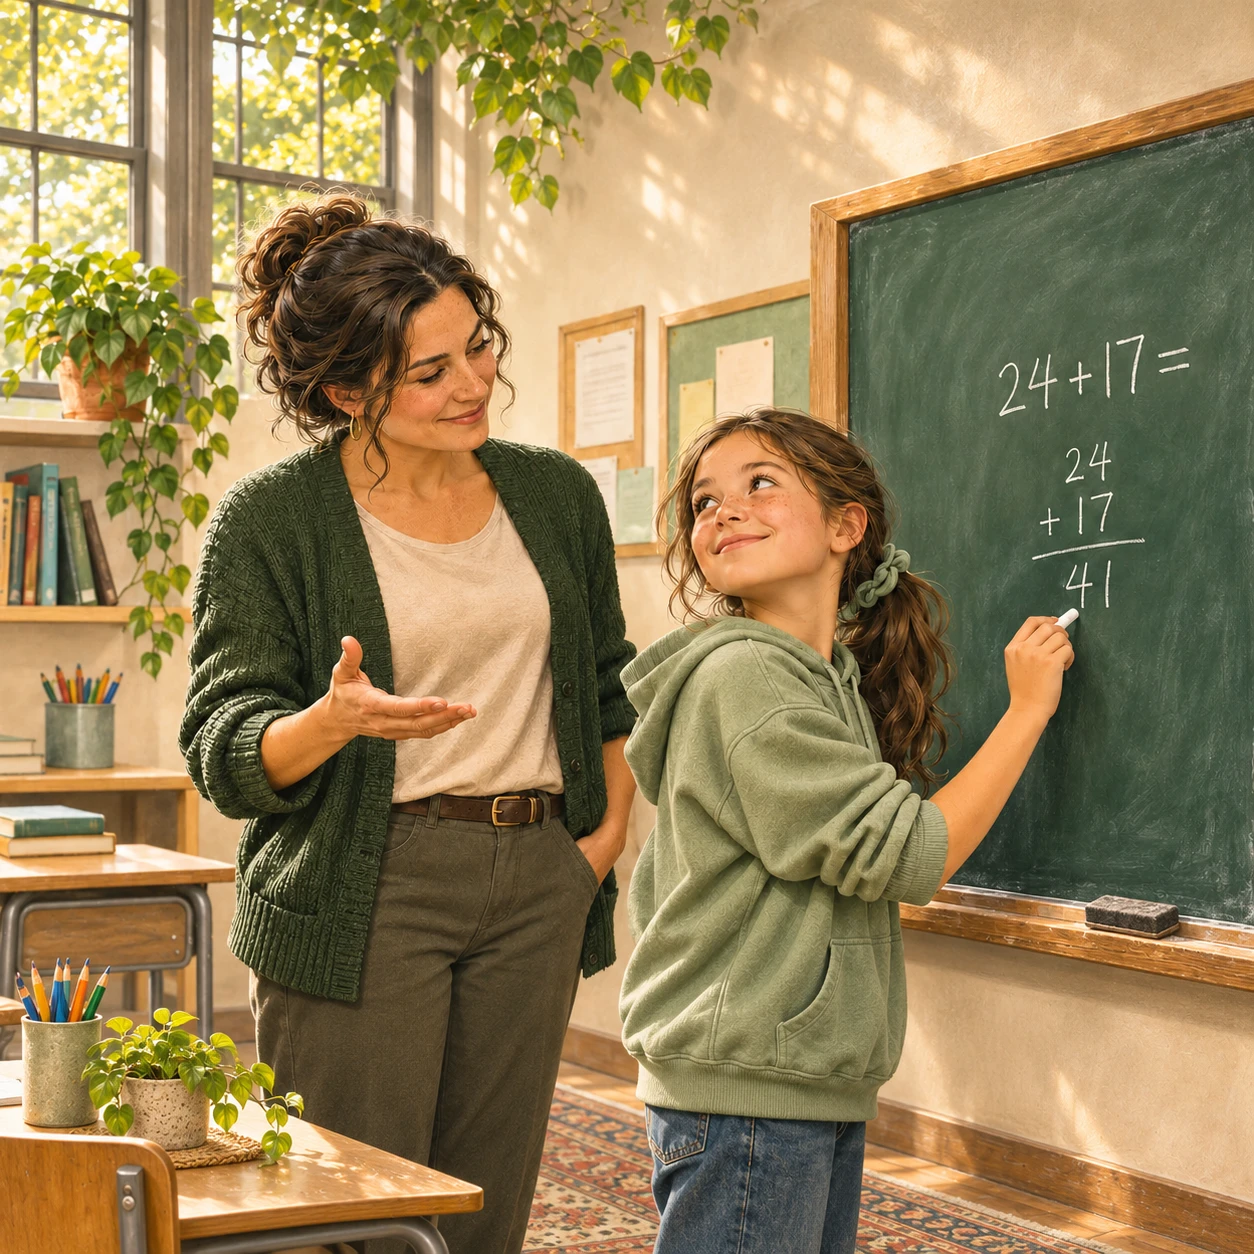
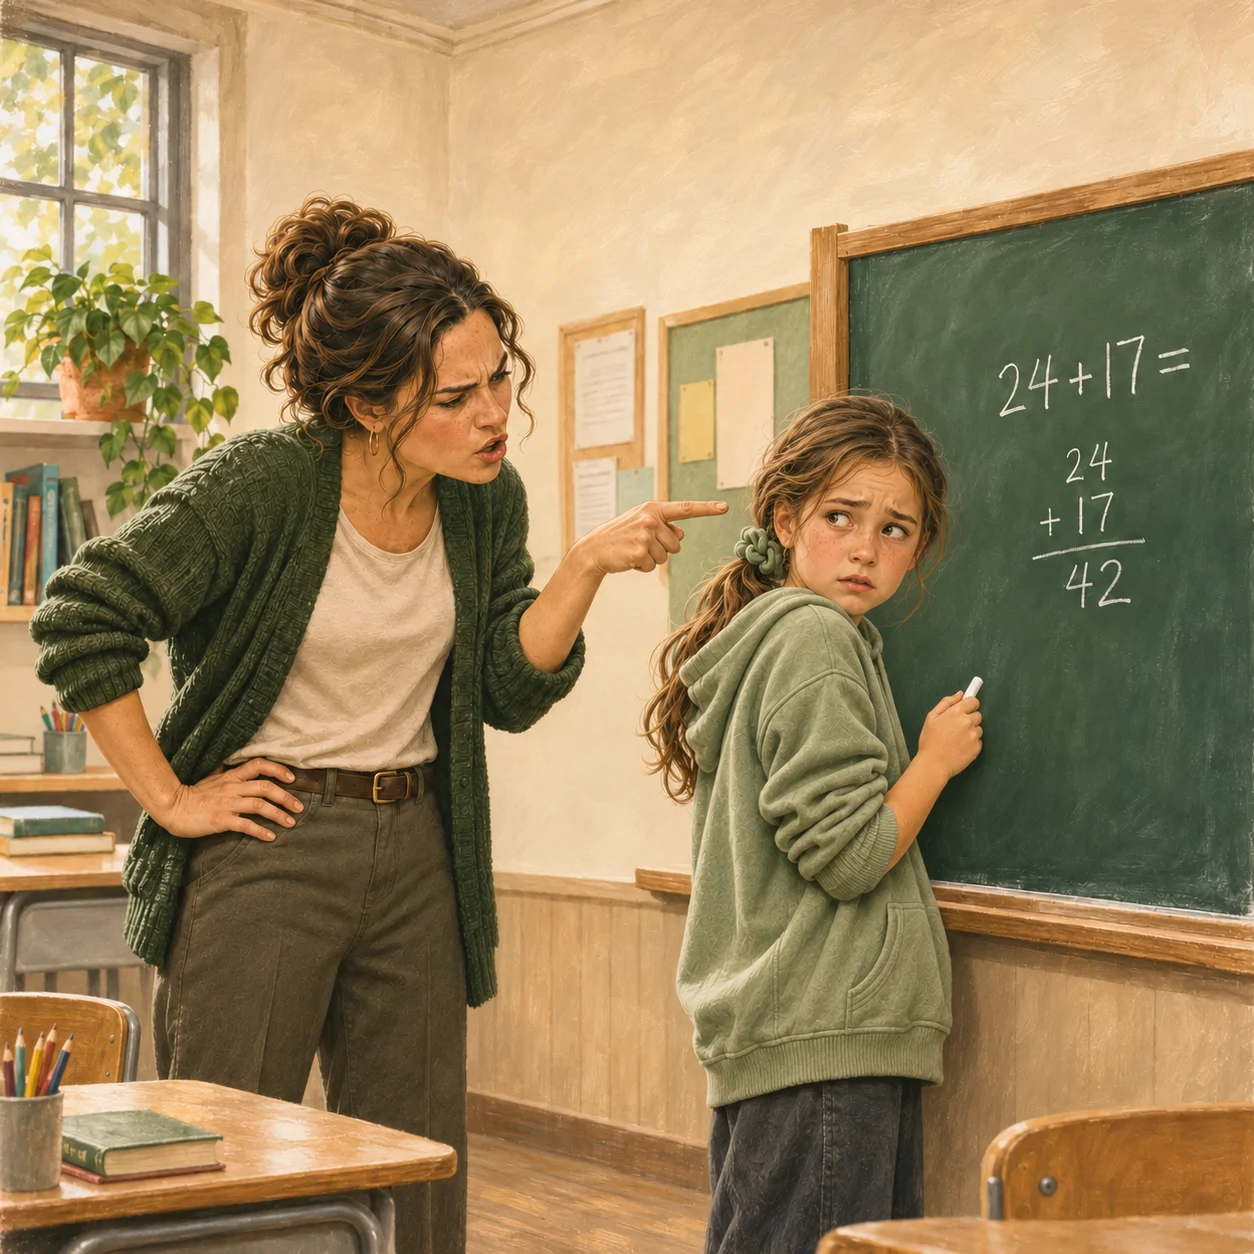
Show a worried student, scolding Math teacher and incorrect answer without picture captions

diff --git a/index.html b/index.html
@@ -59,7 +59,7 @@
 <button type="button" class="page-down-arrow" id="page-down-arrow" aria-label="Go to the bottom of this page" title="Go to bottom" hidden><svg width="24" height="24" viewBox="0 0 24 24" fill="none" aria-hidden="true"><path d="M12 4v15m-6-6 6 6 6-6" stroke="currentColor" stroke-width="1.6" stroke-linecap="round" stroke-linejoin="round"/></svg></button><span id="year" hidden></span>
 <dialog id="program-booking-dialog" class="action-popup" aria-labelledby="program-booking-title"><button type="button" class="popup-close" aria-label="Close booking instructions">×</button><p class="eyebrow" id="booking-program-name"></p><h2 id="program-booking-title">Before you book</h2><p>Please email a 2-minute voice note to Contactus@speakboldly.space. This helps us understand your current level.</p><button id="booking-whatsapp" class="button" type="button" disabled>WhatsApp · coming soon</button><section class="booking-2027" aria-labelledby="booking-2027-title"><h3 id="booking-2027-title">Active starting from 2027</h3><p>Complete both free tests in the <a class="email-link" href="#placement">Assessment tab</a>. Email both result screenshots and your 150 EGP payment screenshot to <a class="email-link" href="mailto:billing@speakboldly.space">billing@speakboldly.space</a> to receive available Zoom assessment times.</p><p>Your Zoom placement assessment lasts 15–20 minutes.</p></section></dialog><dialog id="course-dialog"><button class="close" aria-label="Close course details">×</button><div id="course-detail"></div></dialog>
 <dialog id="course-fees-dialog" class="action-popup" aria-labelledby="course-fees-title"><button type="button" class="popup-close" aria-label="Close session and pricing details">×</button><h2 id="course-fees-title">Session &amp; pricing details</h2><ul><li><svg class="pricing-detail-art" viewBox="0 0 60 60" fill="none" stroke="currentColor" stroke-width="1.4" stroke-linecap="round" stroke-linejoin="round" aria-hidden="true"><path d="M9 13h28l9 9v31H9ZM37 13v10h9M17 32h20M17 40h15M19 6h24l10 10v30"/><path d="m19 24 3 3 6-7"/></svg><span>Your course fees include assessments, progress reports, learning materials, and access to independent practice activities between sessions.</span></li><li><span class="inclusion-symbol" aria-hidden="true"><svg class="pricing-detail-art" viewBox="0 0 60 60" fill="none" stroke="currentColor" stroke-width="1.4" stroke-linecap="round" stroke-linejoin="round"><path d="M7 12q12-6 23 0 12-6 23 0v35q-12-6-23 0-11-6-23 0ZM30 12v35M14 23h10M36 23h10M14 31h10M36 31h10"/></svg></span><span>We use original Speak Boldly learning materials developed specifically for our courses.</span></li><li><svg class="pricing-detail-art" viewBox="0 0 60 60" fill="none" stroke="currentColor" stroke-width="1.4" stroke-linecap="round" stroke-linejoin="round" aria-hidden="true"><rect x="8" y="11" width="42" height="38" rx="3"/><path d="M8 23h42M19 5v12M40 5v12M16 30h6M29 30h6M16 40h6M29 40h6"/><path d="m41 36 3 3 6-7"/></svg><span>Each round lasts four weeks. We recommend 4–6 rounds for noticeable progress.</span></li><li><span class="inclusion-symbol" aria-hidden="true">◎</span><span>Your instructor stays the same throughout the course.</span></li><li><span class="inclusion-symbol" aria-hidden="true">↗</span><span>Always remember that <strong>Progress is a shared responsibility. Your consistency makes the difference!</strong></span></li><li><svg class="pricing-detail-art" viewBox="0 0 60 60" fill="none" stroke="currentColor" stroke-width="1.4" stroke-linecap="round" stroke-linejoin="round" aria-hidden="true"><rect x="8" y="6" width="40" height="29" rx="3"/><path d="M20 35v9M13 44h30"/><circle cx="28" cy="18" r="5"/><path d="M18 29c0-8 20-8 20 0"/></svg><span><strong>All prices are for one-to-one, 90-minute, fully interactive sessions.</strong></span></li></ul><p class="course-funding-note"><svg class="funding-heart" viewBox="0 0 60 60" fill="none" stroke="currentColor" stroke-width="1.5" aria-hidden="true"><path d="M30 46C5 31 6 13 18 12c7-1 12 7 12 7s5-8 12-7c12 1 13 19-12 34Z" fill="#edf0e6"/><path d="M5 43q15 1 24 10 8-8 25-10M15 43l4-7M45 43l-4-7"/></svg><strong>Your fees help others learn.</strong><br>Part of your course fees funds English courses for students in Egypt who cannot afford them. We aim to extend this support to Sudan and other countries soon.</p></dialog><dialog id="quote-dialog-4" class="action-popup" aria-labelledby="quote-dialog-4-title"><button type="button" class="popup-close" aria-label="Close language services enquiry">×</button><h2 id="quote-dialog-4-title">Interpret boldly</h2><p>Interpretation and translation by Speak Boldly. Tell us about your project; we’ll discuss scope, availability and a tailored quotation.</p><form class="quote-request-form" data-request-type="Interpret boldly — interpretation and translation"><label>Your name<input name="name" required maxlength="100" autocomplete="name"></label><label>Email<input name="email" required type="email" autocomplete="email"></label><label>Organisation (optional)<input name="organisation" maxlength="200"></label><label>Service<select name="service"><option>Live interpretation</option><option>Written translation</option><option>Help me choose</option></select></label><label>Languages — from and to<input name="languages" required maxlength="150" placeholder="For example: Arabic → English"></label><label>Project or event<textarea name="description" required rows="4" maxlength="3000" placeholder="Topic, audience, type of material, and any specialist terminology"></textarea></label><label>Date / deadline and time zone<input name="deadline" required maxlength="200"></label><label>Duration or approximate word count<input name="scope" required maxlength="150"></label><label>Online / venue or location<input name="location" maxlength="250"></label><label>Budget range (optional)<input name="budget" maxlength="120"></label><label>Preferred time for an initial discussion<input name="meeting" maxlength="200"></label><button class="button" type="submit">Request a conversation</button><p class="quote-email-status demo-note" role="status"></p></form></dialog><div id="toast" role="status" aria-live="polite"></div><script type="module" src="./platform-time.js?v=roomy-time"></script><script type="module" src="./app.js?v=word-stress-2"></script><script type="module" src="./navigation.js?v=review-navigation-7"></script><script>document.querySelectorAll('.quote-request-form').forEach(form=>form.addEventListener('submit',event=>{event.preventDefault();const data=new FormData(form);const subject='Quote request: '+form.dataset.requestType;const body=['Request type: '+form.dataset.requestType,...Array.from(data,([key,value])=>key+': '+value).filter(line=>!line.endsWith(': '))].join('\n\n');window.location.href='mailto:Contactus@speakboldly.space?subject='+encodeURIComponent(subject)+'&body='+encodeURIComponent(body);form.querySelector('.quote-email-status').textContent='We\'ll get back to you within 48 business hours. Please press Send in your email app to deliver your request.';}));</script><script type="module" src="./popups.js?v=mobile-assessment-page"></script><script type="module" src="./mobile-button-labels.js?v=all-buttons"></script><script type="module" src="./student-install.js?v=learning-hub"></script><script type="module" src="./installed-app-ui.js?v=app-resume"></script><script type="module" src="./pull-to-refresh.js?v=early-touch-capture"></script><script type="module" src="./popup-dismiss.js?v=outside-tap"></script><script type="module" src="./save-feedback.js?v=registration-approval"></script>
-<script type="module" src="./section-guides.js?v=culture-corner-2"></script><script type="module" src="./program-consultation.js?v=success-return-1"></script><script type="module" src="./mobile-swipe-back.js?v=1"></script><script type="module" src="./homepage-fit.js?v=screen-fit"></script><script type="module" src="./feature-loader.js?v=session-notes-25"></script><script type="module" src="./loading-ui.js?v=green-ring"></script><script type="module" src="./public-tab-addresses.js?v=speak-hub-3"></script><script type="module" src="./rewards.js?v=covered-wheel-4"></script></body></html>
+<script type="module" src="./section-guides.js?v=culture-corner-2"></script><script type="module" src="./program-consultation.js?v=success-return-1"></script><script type="module" src="./mobile-swipe-back.js?v=1"></script><script type="module" src="./homepage-fit.js?v=screen-fit"></script><script type="module" src="./feature-loader.js?v=stern-teacher-26"></script><script type="module" src="./loading-ui.js?v=green-ring"></script><script type="module" src="./public-tab-addresses.js?v=speak-hub-3"></script><script type="module" src="./rewards.js?v=covered-wheel-4"></script></body></html>
 
 
 

diff --git a/feature-loader.js b/feature-loader.js
@@ -10,7 +10,7 @@ export function initializeFeatureLoader(doc,win){
   'students-portal':['./learning-hub-entry.js?v=reload-chooser-11'],
   'assessment':['./placement-assessment.js?v=brief-personal-2'],
   'reviews':['./reviews.js?v=complete-cards-4'],
-  'daily-quote':['./home-gallery.js?v=math-reflection-trim-9'],
+  'daily-quote':['./home-gallery.js?v=stern-teacher-10'],
   'learner-profile':['./learner-profile.js?v=brief-personal-2'],
   'learner-results':['./learner-profile.js?v=brief-personal-2'],
   'boldly-notes':['./boldly-notes.js?v=consistency-words-5']
@@ -32,7 +32,7 @@ export function initializeFeatureLoader(doc,win){
 
  async function load(){const key=win.location.hash.slice(1).split('/')[0],modules=groups[key];if(key==='assessment'){void assessment();return;}if(key==='students-portal'&&win.location.hash.endsWith('/teacher'))void ensureAdmin();if(!modules||pending.has(key))return;const root=doc.getElementById(key);if(!root)return;const spinner=doc.createElement('p');if(key==='daily-quote')spinner.hidden=true;spinner.className='sb-loading';spinner.dataset.loading='true';spinner.setAttribute('role','status');spinner.setAttribute('aria-label','Loading');root.prepend(spinner);const buttons=key==='students-portal'?[...root.querySelectorAll('[data-portal-area]')]:[];buttons.forEach(b=>b.disabled=true);
  const task=Promise.all(modules.map(module=>import(module)));pending.set(key,task);try{await task;buttons.forEach(b=>b.disabled=false);if(key==='students-portal'&&['#students-portal/student','#students-portal/calendar'].includes(win.location.hash)&&root.querySelector('#client-portal')?.hidden)root.querySelector('[data-portal-area=client]')?.click();if(key==='students-portal'&&win.location.hash.endsWith('/teacher')&&await ensureAdmin())root.querySelector('[data-portal-area=admin]')?.click();spinner.remove();}catch{pending.delete(key);spinner.className='';delete spinner.dataset.loading;spinner.textContent='This section could not load. ';const retry=doc.createElement('button');retry.type='button';retry.className='button light small';retry.textContent='Try again';retry.onclick=()=>{spinner.remove();void load();};spinner.append(retry);}finally{buttons.forEach(b=>b.disabled=false);}}
- const warmMotivation=()=>{if((!win.location.hash||win.location.hash==='#home')&&!doc.hidden)void import('./home-gallery.js?v=math-reflection-trim-9').catch(()=>{});};if(win.requestIdleCallback)win.requestIdleCallback(warmMotivation,{timeout:2000});else win.setTimeout(warmMotivation,1500);doc.addEventListener('pointerover',event=>{if(event.target.closest?.('[data-open-view="daily-quote"],a[href*="/learn/daily-quotes/"]'))warmMotivation();},{passive:true});
+ const warmMotivation=()=>{if((!win.location.hash||win.location.hash==='#home')&&!doc.hidden)void import('./home-gallery.js?v=stern-teacher-10').catch(()=>{});};if(win.requestIdleCallback)win.requestIdleCallback(warmMotivation,{timeout:2000});else win.setTimeout(warmMotivation,1500);doc.addEventListener('pointerover',event=>{if(event.target.closest?.('[data-open-view="daily-quote"],a[href*="/learn/daily-quotes/"]'))warmMotivation();},{passive:true});
  win.addEventListener('hashchange',load);void load();if(doc.querySelector('#assessment-dialog')?.open)void assessment();
 }
 if(typeof document!=='undefined')initializeFeatureLoader(document,window);

diff --git a/home-gallery.js b/home-gallery.js
@@ -1,4 +1,4 @@
-import {motivationPreviews} from './motivation-preview-images.js?v=unbranded-motivation-5';
+import {motivationPreviews} from './motivation-preview-images.js?v=stern-teacher-6';
 import {motivationDay,refreshMotivationSettings,motivationSettings,setMotivationSettings,MOTIVATION_PIN} from './motivation-settings.js?v=weekly-2';
 // Update this list to change the daily pictures and quotes.
 export const dailyQuotes = [
@@ -105,7 +105,7 @@ quoteDetails.push({support:[],reflection:'You do not need a perfect sentence to 
 dailyPractice.push('Your small step: write one new phrase in your notebook, make it about your own life and say it aloud. One phrase. One brave try.');
 // A new reflection requested by the owner; the earlier archived story remains unchanged.
 const mathTeacherOriginalIndex=dailyQuotes.findIndex(entry=>entry.image==='./images/daily-motivation-safe-learning-original.png');
-dailyQuotes.push({...dailyQuotes[mathTeacherOriginalIndex],image:'./images/daily-motivation-math-teacher-board.webp',alt:'A teacher gently encouraging a schoolgirl as they stand together at a maths blackboard',quote:'I hated my Math teacher, too!'});
+dailyQuotes.push({...dailyQuotes[mathTeacherOriginalIndex],image:'./images/daily-motivation-math-teacher-board.webp',alt:'A stern Math teacher scolding a worried schoolgirl beside an incorrect answer on the blackboard',quote:'I hated my Math teacher, too!'});
 quoteDetails.push({"support":[],"reflection":"Sometimes, what stays with us from a classroom has very little to do with the subject. We remember how it felt to hesitate, to ask a question, or to get an answer wrong while everyone was listening.","paragraphs":["Sometimes, what stays with us from a classroom has very little to do with the subject. We remember how it felt to hesitate, to ask a question, or to get an answer wrong while everyone was listening.","Over time, that feeling can become a belief about ourselves: ‘I’m bad at Math.’ ‘Languages just aren’t for me.’ We carry those conclusions into adulthood, often without questioning where they came from.","If English brings back that same fear, you deserve the chance to experience learning differently.","Give yourself permission to try in a space where questions are welcome. Start with one conversation, one useful sentence, or one question you would usually keep to yourself. Let that experience give you new evidence about what you can do.","And if you teach, remember the responsibility in your next response. The learner in front of you may carry your words long after they forget the lesson. Choose words that help them return with curiosity and the courage to try again."]});
 dailyPractice.push("Ask one question you would usually keep to yourself. Give yourself the chance to be supported.");
 export function motivationShareUrl(entry,base='https://speakboldly.space/'){

diff --git a/admin-portal.js b/admin-portal.js
@@ -11,7 +11,7 @@ import {createPaymentReminder} from './payment-reminder.js?v=success-return-1';
 import {initializeHubAccessEditor} from './hub-access-editor.js?v=word-stress-3';
 import {initializeMotivationFreeze} from './motivation-freeze-editor.js?v=motivation-label-2';
 import {refreshMotivationSettings} from './motivation-settings.js?v=freeze-24-oct-1';
-import {clientDailyMotivation} from './home-gallery.js?v=math-reflection-trim-9';
+import {clientDailyMotivation} from './home-gallery.js?v=stern-teacher-10';
 import {initializeInstructorFrench} from './instructor-french.js?v=toolbar-v2';
 import {initializeNativeEnglishEditor} from './native-english-editor.js?v=simplified-art-3';
 import {initializeInstructorOverview} from './instructor-overview.js?v=centered-actions-2';
